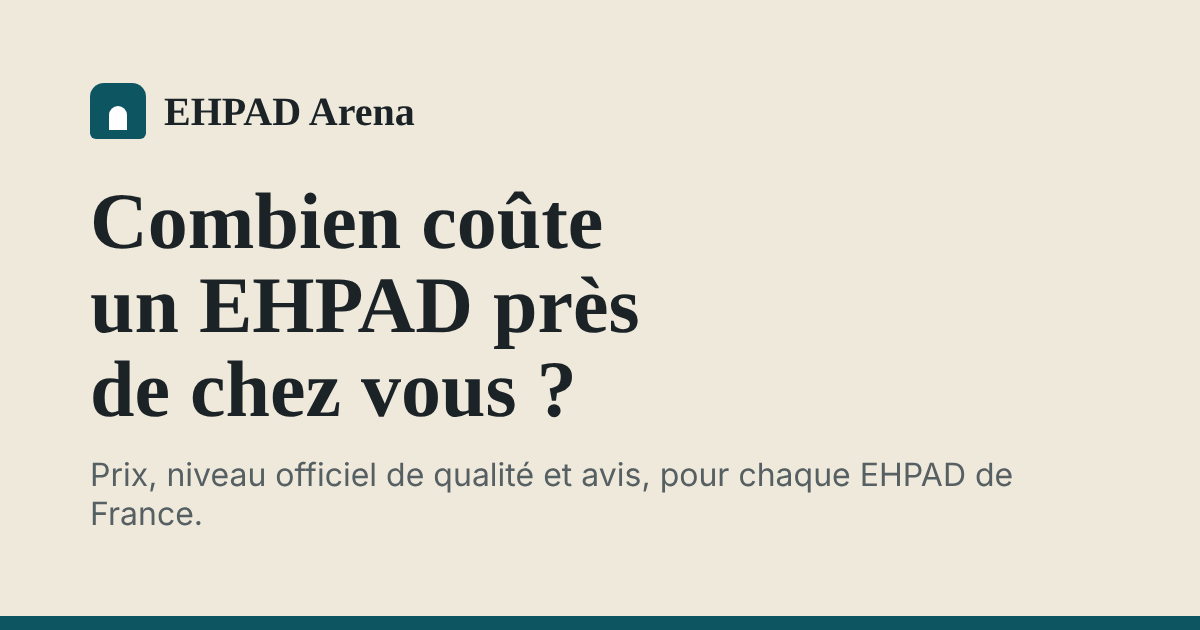
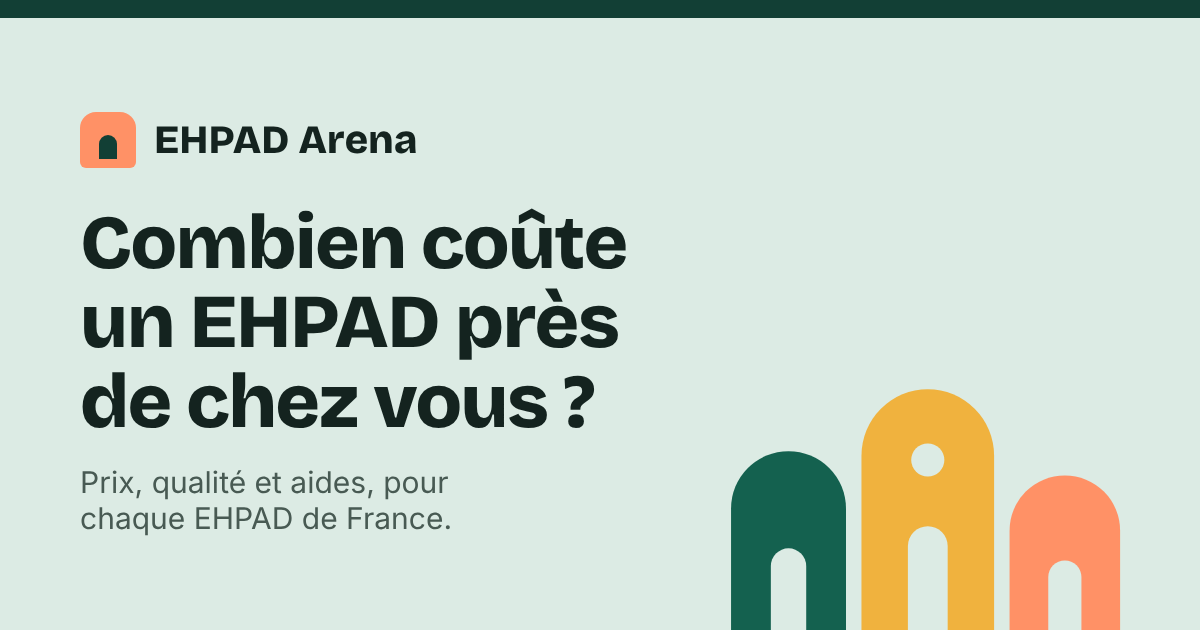
Identité v2 : vert sapin, corail et miel, titres épais (Bricolage Grotesque), maisons en illustration, liserés de couleur
Claude-Session: https://claude.ai/code/session_01LzHpybMDAP8G5uVjMNyh6b

diff --git a/src/styles/site.css b/src/styles/site.css
@@ -1,33 +1,33 @@
 
-/* Identité (novembre 2026) : papier clair, encre, bleu pétrole et miel ; titres en Source Serif, texte en Source Sans.
+/* Identité (novembre 2026) : papier clair, vert sapin, corail et miel ; titres épais en Bricolage Grotesque, texte en Source Sans.
    Bandeaux sable pour la question et la réponse, cartes blanches dessous. Le prix mensuel est toujours le plus gros élément ; la réglette de prix est le motif récurrent. */
 :root{
-  --bg:#fbf9f5; --surface:#ffffff; --surface-2:#f2eee6; --line:#dfd8ca;
-  --fg:#1b2327; --muted:#586266;
-  --band:#efe9dc; --band-2:#ffffff; --on-band:#1b2327; --on-band-muted:#565f62;
-  --accent:#f0b23e; --accent-ink:#2b1c00; --link:#0d5661; --on-link:#ffffff; --bar:#a9c3c7;
-  --a:#17794a; --b:#5c9a2a; --c:#b9770a; --d:#b3312c; --na:#7a8285; --on-grade:#ffffff;
+  --bg:#fbfaf6; --surface:#ffffff; --surface-2:#edf3ef; --line:#d5dfd9;
+  --fg:#14231f; --muted:#52625c;
+  --band:#dcebe4; --band-2:#ffffff; --on-band:#14231f; --on-band-muted:#485a53;
+  --accent:#ff9166; --accent-ink:#35100a; --sun:#f0b23e; --link:#14614f; --on-link:#ffffff; --bar:#a5c7ba; --top:#123f35; --top-2:#1c5a4c;
+  --a:#17794a; --b:#5c9a2a; --c:#b9770a; --d:#b3312c; --na:#7a8580; --on-grade:#ffffff;
   --ga:#17794a; --gb:#5c9a2a; --gc:#b9770a; --gd:#b3312c;
-  --warn-bg:#fbf0d4; --warn-fg:#5f4200;
-  --display:"Source Serif 4 Variable","Source Serif 4",Georgia,"Times New Roman",serif;
+  --warn-bg:#fdf0e2; --warn-fg:#5c3413;
+  --display:"Bricolage Grotesque Variable","Bricolage Grotesque","Trebuchet MS",system-ui,sans-serif;
   --text:"Source Sans 3 Variable","Source Sans 3","Segoe UI",system-ui,sans-serif;
-  --r:10px; --shadow:0 1px 2px rgba(27,35,39,.05);
+  --r:14px; --shadow:0 1px 2px rgba(20,35,31,.05);
 }
 @media (prefers-color-scheme: dark){ :root:not([data-theme="light"]){
-  --bg:#141a1c; --surface:#1c2427; --surface-2:#263135; --line:#36444a;
-  --fg:#eef0ec; --muted:#a8b2b3;
-  --band:#192124; --band-2:#263135; --on-band:#eef0ec; --on-band-muted:#a8b2b3;
-  --accent:#f0b23e; --accent-ink:#2b1c00; --link:#7cc8d3; --on-link:#0c1b1e; --bar:#3f5a61;
-  --a:#2f9d68; --b:#77b040; --c:#d0902a; --d:#d4544e; --na:#8a9496; --on-grade:#0d1416;
+  --bg:#101916; --surface:#18231f; --surface-2:#22302b; --line:#33443d;
+  --fg:#eef2ee; --muted:#a7b5ae;
+  --band:#152420; --band-2:#22302b; --on-band:#eef2ee; --on-band-muted:#a7b5ae;
+  --accent:#ff9166; --accent-ink:#35100a; --sun:#f0b23e; --link:#7ed3b9; --on-link:#082019; --bar:#3b5a50; --top:#0d2f28; --top-2:#174a3f;
+  --a:#2f9d68; --b:#77b040; --c:#d0902a; --d:#d4544e; --na:#8a9691; --on-grade:#0c1512;
   --ga:#4fd08a; --gb:#a8d86a; --gc:#f6c453; --gd:#ff8078;
   --warn-bg:#3a2e12; --warn-fg:#f4dca6;
   --shadow:0 1px 2px rgba(0,0,0,.3); color-scheme:dark } }
 :root[data-theme="dark"]{
-  --bg:#141a1c; --surface:#1c2427; --surface-2:#263135; --line:#36444a;
-  --fg:#eef0ec; --muted:#a8b2b3;
-  --band:#192124; --band-2:#263135; --on-band:#eef0ec; --on-band-muted:#a8b2b3;
-  --accent:#f0b23e; --accent-ink:#2b1c00; --link:#7cc8d3; --on-link:#0c1b1e; --bar:#3f5a61;
-  --a:#2f9d68; --b:#77b040; --c:#d0902a; --d:#d4544e; --na:#8a9496; --on-grade:#0d1416;
+  --bg:#101916; --surface:#18231f; --surface-2:#22302b; --line:#33443d;
+  --fg:#eef2ee; --muted:#a7b5ae;
+  --band:#152420; --band-2:#22302b; --on-band:#eef2ee; --on-band-muted:#a7b5ae;
+  --accent:#ff9166; --accent-ink:#35100a; --sun:#f0b23e; --link:#7ed3b9; --on-link:#082019; --bar:#3b5a50; --top:#0d2f28; --top-2:#174a3f;
+  --a:#2f9d68; --b:#77b040; --c:#d0902a; --d:#d4544e; --na:#8a9691; --on-grade:#0c1512;
   --ga:#4fd08a; --gb:#a8d86a; --gc:#f6c453; --gd:#ff8078;
   --warn-bg:#3a2e12; --warn-fg:#f4dca6;
   --shadow:0 1px 2px rgba(0,0,0,.3); color-scheme:dark }
@@ -717,7 +717,7 @@ a.hb:hover span{text-decoration:underline}
 
 /* ----- Identité novembre 2026 : ajustements ----- */
 body{font-size:18px;line-height:1.55;-webkit-font-smoothing:antialiased}
-h1,h2,h3{font-weight:650;letter-spacing:-.005em;line-height:1.15}
+h1,h2,h3{font-weight:750;letter-spacing:-.005em;line-height:1.15}
 a{text-underline-offset:3px;text-decoration-thickness:1px}
 a:hover{text-decoration-thickness:2px}
 :focus-visible{outline:3px solid var(--link);outline-offset:2px}
@@ -729,15 +729,15 @@ body::before{background:var(--surface)}
 .top a.nav,.top button.nav{color:var(--fg);border-radius:8px}
 .top a.nav[aria-current="page"]{box-shadow:inset 0 -3px 0 var(--accent);border-radius:0}
 .band{border-bottom:1px solid var(--line)}
-.band h1{font-weight:650;font-size:clamp(2rem,5.4vw,3.1rem);max-width:19ch;line-height:1.08}
+.band h1{font-weight:750;font-size:clamp(2rem,5.4vw,3.1rem);max-width:19ch;line-height:1.08}
 .band .lede{font-size:1.15rem;color:var(--on-band-muted)}
-.block h2{font-size:1.7rem;font-weight:650}
+.block h2{font-size:1.7rem;font-weight:750}
 .search input{height:64px;border-radius:10px;border:2px solid var(--fg);font-size:1.15rem}
 .search input:focus{border-color:var(--link);box-shadow:0 0 0 3px color-mix(in srgb,var(--link) 25%,transparent)}
 .search input::placeholder{color:var(--muted);opacity:1}
 .sugg,.near-list{border-radius:10px;border:1px solid var(--line)}
 .tile{background:var(--surface);border:1px solid var(--line);border-radius:var(--r)}
-.tile .val,.price b,.hero-num,.answer .big{font-weight:650}
+.tile .val,.price b,.hero-num,.answer .big{font-weight:750}
 .grade{border-radius:10px;font-family:var(--text);font-weight:700}
 .q-head .grade{border-radius:12px}
 .rank{font-family:var(--text);font-weight:700}
@@ -752,7 +752,7 @@ body::before{background:var(--surface)}
 .how .txt b::before,.asteps .n{font-family:var(--text)}
 .v-search{border:1.5px solid var(--fg);border-radius:8px}
 .v-sugg,.v-sum>div,.v-cmp>div{border:1px solid var(--line);border-radius:8px}
-.menu a,.menu button{font-weight:650}
+.menu a,.menu button{font-weight:750}
 .note{border-radius:8px;border-left:4px solid var(--accent)}
 .why{border-left-color:var(--accent)}
 .cols19 .md{background:var(--fg)}
@@ -760,7 +760,7 @@ body::before{background:var(--surface)}
 .picto i{border-radius:40% 40% 5px 5px / 34% 34% 5px 5px}
 .kicker{font-size:.95rem;font-weight:600;color:var(--on-band-muted);opacity:1}
 .upd{opacity:1;color:var(--on-band-muted)}
-.acc summary b,.row h3,.news h3,.ana h3{font-weight:650}
+.acc summary b,.row h3,.news h3,.ana h3{font-weight:750}
 .fam .t{font-weight:700}
 footer{font-size:.92rem}
 @media (max-width:720px){body{font-size:17px}}
@@ -804,7 +804,7 @@ footer{font-size:.92rem}
 .rows li{border-bottom:1px solid var(--line);scroll-margin-top:84px}
 .rows a{display:grid;grid-template-columns:minmax(0,17rem) minmax(0,1fr) auto;gap:8px 28px;align-items:center;padding:20px 6px;color:var(--fg);text-decoration:none}
 .rows a:hover{background:var(--surface)}
-.rw-t b{display:block;font-family:var(--display);font-size:1.35rem;font-weight:650;line-height:1.2}
+.rw-t b{display:block;font-family:var(--display);font-size:1.35rem;font-weight:750;line-height:1.2}
 .rw-t small{color:var(--muted);font-size:.92rem}
 .rw-m{color:var(--fg)}
 .rw-m em{display:block;font-style:normal;font-size:.9rem;font-weight:600;color:var(--link);margin-bottom:2px}
@@ -812,7 +812,7 @@ footer{font-size:.92rem}
 .rows a:hover .rw-go{text-decoration:underline}
 .srcs{list-style:none!important;padding:0!important;gap:0!important;border-top:2px solid var(--fg);margin-top:14px!important}
 .srcs li{display:grid;grid-template-columns:7rem minmax(0,1fr);gap:16px;padding:16px 0;border-bottom:1px solid var(--line)}
-.s-k{font-family:var(--display);font-weight:650;font-size:1.1rem}
+.s-k{font-family:var(--display);font-weight:750;font-size:1.1rem}
 .srcs b{font-size:1.1rem}
 .srcs small{color:var(--muted)}
 .srcs p{margin-top:4px!important}
@@ -835,3 +835,36 @@ footer{font-size:.92rem}
   .srcs li{grid-template-columns:minmax(0,1fr);gap:2px}
 }
 .checks b{grid-column:2;grid-row:1}.checks span{grid-row:2}
+
+/* ----- Identité v2 (14 novembre 2026) : vert sapin, corail, miel, titres épais, maisons en illustration ----- */
+h1,h2,h3{letter-spacing:-.02em}
+.band h1{font-weight:800;font-size:clamp(2.1rem,5.8vw,3.3rem);line-height:1.05}
+.block h2{font-size:1.75rem}
+.top{background:var(--top);border-bottom:0}
+body::before{background:var(--top)}
+.logo{color:#fbf8ef;font-weight:800}
+.logo i{background:var(--accent)}
+.logo i::after{background:var(--top)}
+.top a.nav,.top button.nav{color:#fbf8ef}
+.top .nav:hover{background:var(--top-2)}
+.top a.nav[aria-current="page"]{box-shadow:inset 0 -3px 0 var(--accent)}
+.band{border-bottom:0}
+.search input{border-radius:14px;border-color:var(--link)}
+.btn{border-radius:12px}
+.tile{border-color:transparent}
+.grade{font-family:var(--display)}
+.how li,.cities a,.ana,.fr,.aid,.news article{border-top:4px solid var(--link)}
+.how li:nth-child(3n+2),.cities li:nth-child(3n+2) a,.anas>:nth-child(3n+2),.news article:nth-child(3n+2){border-top-color:var(--sun)}
+.how li:nth-child(3n),.cities li:nth-child(3n) a,.anas>:nth-child(3n),.news article:nth-child(3n){border-top-color:var(--accent)}
+.brief{border-top-color:var(--link)}
+.rows{border-top-color:var(--link);border-top-width:4px}
+.srcs{border-top-color:var(--link)}
+.note,.callout,.why{border-left-color:var(--accent)}
+.ab-stats div{border-left-color:var(--accent)}
+.checks li::before{background:var(--link);color:var(--on-link)}
+@media (min-width:960px){
+  .band.ill{background-image:url(/maisons.svg);background-repeat:no-repeat;background-position:right max(28px,calc(50% - 492px)) bottom;background-size:350px auto}
+}
+@media (max-width:959px){
+  .band.ill .wrap{padding-bottom:104px;background:url(/maisons.svg) no-repeat right 16px bottom/150px auto}
+}

diff --git a/scripts/og/og.html b/scripts/og/og.html
@@ -1,8 +1,9 @@
 <!doctype html><html><head><meta charset="utf-8"><style>
-body{margin:0;width:1200px;height:630px;background:#efe9dc;color:#1b2327;font-family:Georgia,"Times New Roman",serif;display:flex;flex-direction:column;justify-content:center;padding:0 90px;box-sizing:border-box;border-bottom:14px solid #0d5661}
-.l{display:flex;align-items:center;gap:18px;font-size:40px;font-weight:700}
-.l i{width:56px;height:56px;border-radius:14px 14px 6px 6px;background:#0d5661;display:grid;place-items:center}
-.l i:after{content:"";width:18px;height:24px;border-radius:9px 9px 0 0;background:#fff;margin-top:14px}
-h1{font-size:80px;line-height:1.05;margin:40px 0 24px;max-width:15ch;font-weight:700}
-p{font-size:32px;color:#565f62;margin:0;font-family:system-ui,sans-serif}
-</style></head><body><div class="l"><i></i>EHPAD Arena</div><h1>Combien coûte un EHPAD près de chez vous ?</h1><p>Prix, niveau officiel de qualité et avis, pour chaque EHPAD de France.</p></body></html>
+@font-face{font-family:Bric;src:url(file:///home/claude/ehpad-arena/node_modules/@fontsource-variable/bricolage-grotesque/files/bricolage-grotesque-latin-wght-normal.woff2) format("woff2");font-weight:200 800}
+body{margin:0;width:1200px;height:630px;background:#dcebe4 url(../../public/maisons.svg) no-repeat right 60px bottom/420px auto;color:#14231f;font-family:Bric,system-ui,sans-serif;display:flex;flex-direction:column;justify-content:center;padding:0 80px;box-sizing:border-box;border-top:18px solid #123f35}
+.l{display:flex;align-items:center;gap:18px;font-size:40px;font-weight:800}
+.l i{width:56px;height:56px;border-radius:16px 16px 6px 6px;background:#ff9166;display:grid;place-items:center}
+.l i:after{content:"";width:18px;height:24px;border-radius:9px 9px 0 0;background:#123f35;margin-top:14px}
+h1{font-size:76px;line-height:1.04;margin:36px 0 22px;max-width:12ch;font-weight:800;letter-spacing:-.02em}
+p{font-size:30px;color:#485a53;margin:0;font-family:system-ui,sans-serif;max-width:22ch}
+</style></head><body><div class="l"><i></i>EHPAD Arena</div><h1>Combien coûte un EHPAD près de chez vous ?</h1><p>Prix, qualité et aides, pour chaque EHPAD de France.</p></body></html>

diff --git a/src/lib/aides.js b/src/lib/aides.js
@@ -123,7 +123,7 @@ export function renderAidesHub({ A, heb, dep, med }) {
     ["Si le reste à payer est trop lourd", "Déposez une demande d'aide sociale à l'hébergement à la mairie."],
     ["Chaque année", "Déclarez les frais payés dans votre déclaration de revenus pour la réduction d'impôt."],
   ];
-  return `<section class="band"><div class="wrap"><h1>Quelles aides pour payer un EHPAD ?</h1><p class="lede">Quatre aides réduisent la facture d'une maison de retraite médicalisée. Elles peuvent se cumuler.</p></div></section>
+  return `<section class="band ill"><div class="wrap"><h1>Quelles aides pour payer un EHPAD ?</h1><p class="lede">Quatre aides réduisent la facture d'une maison de retraite médicalisée. Elles peuvent se cumuler.</p></div></section>
 <section class="block"><div class="wrap">
   <h2>Les 4 aides</h2>
   <ul class="rows">${A.map((a) => `<li id="${a.id}"><a href="/aides/${a.slug}/"><span class="rw-t"><b>${a.name}</b><small>${a.full}</small></span><span class="rw-m"><em>${a.tag}</em>${a.short}</span><span class="rw-go">Tout savoir <i>→</i></span></a></li>`).join("")}</ul>

diff --git a/src/lib/actus.js b/src/lib/actus.js
@@ -134,7 +134,7 @@ const anaCard = (a) => `<a class="card ana" href="/actualites/${a.slug}/"><p cla
 
 export function renderActusHub({ ana, news, meta }) {
   const last = news.map((a) => a.date).sort().at(-1);
-  return `<section class="band"><div class="wrap"><h1>Actualités et chiffres des EHPAD</h1><p class="lede">Nos analyses calculées sur les données publiques, et l'actualité officielle du secteur.</p>
+  return `<section class="band ill"><div class="wrap"><h1>Actualités et chiffres des EHPAD</h1><p class="lede">Nos analyses calculées sur les données publiques, et l'actualité officielle du secteur.</p>
   <p class="upd">Chiffres recalculés le ${dateFr(meta.built)} · Dernière actualité le ${dateFr(last)}</p></div></section>
 <section class="block"><div class="wrap">
   <h2>Nos analyses</h2>

diff --git a/src/lib/core.js b/src/lib/core.js
@@ -141,7 +141,7 @@ function tiles3(items) {
 // ---------- pages ----------
 export function renderHome({ nat, cities, regions }) {
   const p = (v) => (((v - 1500) / 2500) * 100).toFixed(1);
-  return `<section class="band hero"><div class="wrap">
+  return `<section class="band ill hero"><div class="wrap">
   <h1>Combien coûte un EHPAD près de chez vous ?</h1>
   <p class="lede">Prix, avis et aides pour chaque maison de retraite médicalisée.</p>
   ${searchBox("q")}
